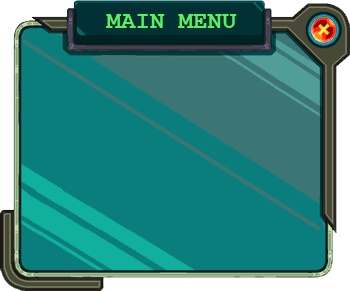
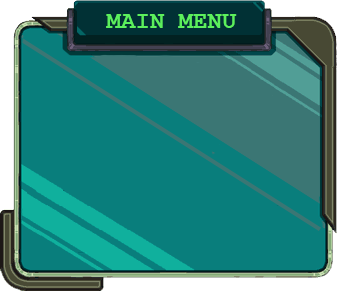
images

Changed region(s): [[0.8286, 0.0, 1.0, 0.2474]]

diff --git a/src/levelpac/MenuBar.java b/src/levelpac/MenuBar.java
@@ -15,22 +15,23 @@ public class MenuBar extends JLabel {
 	private final ImageIcon start_off = new ImageIcon("res/menu/start_bar_off.png");
 	private final ImageIcon start_on = new ImageIcon("res/menu/start_bar_on.png");
 	
-	private final ImageIcon cancel_off = new ImageIcon("res/menu/cancel_bar_off.png");
-	private final ImageIcon cancel_on = new ImageIcon("res/menu/cancel_bar_on.png");
-	
 	private final ImageIcon leader_off = new ImageIcon("res/menu/leader_bar_off.png");
 	private final ImageIcon leader_on = new ImageIcon("res/menu/leader_bar_on.png");
 	
 	private final ImageIcon quit_off = new ImageIcon("res/menu/quit_bar_off.png");
 	private final ImageIcon quit_on = new ImageIcon("res/menu/quit_bar_on.png");
 	
+	
+	private final ImageIcon resume_off = new ImageIcon("res/menu/resume_bar_off.png");
+	private final ImageIcon resume_on = new ImageIcon("res/menu/resume_bar_on.png");
+	
+	private final ImageIcon main_menu_off = new ImageIcon("res/menu/main_menu_bar_off.png");
+	private final ImageIcon main_menu_on = new ImageIcon("res/menu/main_menu_bar_on.png");
+	
 	public MenuBar() {
 		super(new ImageIcon("res/menu/main_menu.png"));
 		setLayout(null);
 		setSize(350,300);
-		
-		addCancel();
-		
 	}
 	
 	public void drawStart() {
@@ -74,44 +75,6 @@ public class MenuBar extends JLabel {
 		
 	}
 
-	public void addCancel() {
-		JLabel cancel = new JLabel(cancel_off);
-		cancel.setSize(40,40);
-		cancel.setLocation(303, 16);
-		add(cancel);
-		
-		cancel.addMouseListener(new MouseListener() {
-			
-			@Override
-			public void mouseReleased(MouseEvent e) {
-				// TODO Auto-generated method stub
-				
-			}
-			
-			@Override
-			public void mousePressed(MouseEvent e) {
-				// TODO Auto-generated method stub
-				
-			}
-			
-			@Override
-			public void mouseExited(MouseEvent e) {
-				cancel.setIcon(cancel_off);
-				
-			}
-			
-			@Override
-			public void mouseEntered(MouseEvent e) {
-				cancel.setIcon(cancel_on);
-				
-			}
-			
-			@Override
-			public void mouseClicked(MouseEvent e) {
-				System.exit(0);
-			}
-		});
-	}
 
 	public void drawLeader() {
 		JLabel leader = new JLabel(leader_off);
@@ -190,4 +153,44 @@ public class MenuBar extends JLabel {
 			
 		});
 	}
+	
+	public void drawResume() {
+		JLabel resume = new JLabel(resume_off);
+		resume.setSize(240,40);
+		resume.setLocation((getWidth()-240)/2, getHeight()*2/5-30);
+		add(resume);
+		resume.addMouseListener(new MouseListener() {
+
+			@Override
+			public void mouseClicked(MouseEvent arg0) {
+				
+			}
+
+			@Override
+			public void mouseEntered(MouseEvent arg0) {
+				resume.setIcon(resume_on);
+				
+			}
+
+			@Override
+			public void mouseExited(MouseEvent arg0) {
+				resume.setIcon(resume_off);
+				
+			}
+
+			@Override
+			public void mousePressed(MouseEvent arg0) {
+				// TODO Auto-generated method stub
+				
+			}
+
+			@Override
+			public void mouseReleased(MouseEvent arg0) {
+				// TODO Auto-generated method stub
+				
+			}
+			
+		});
+	}
+	
 }
